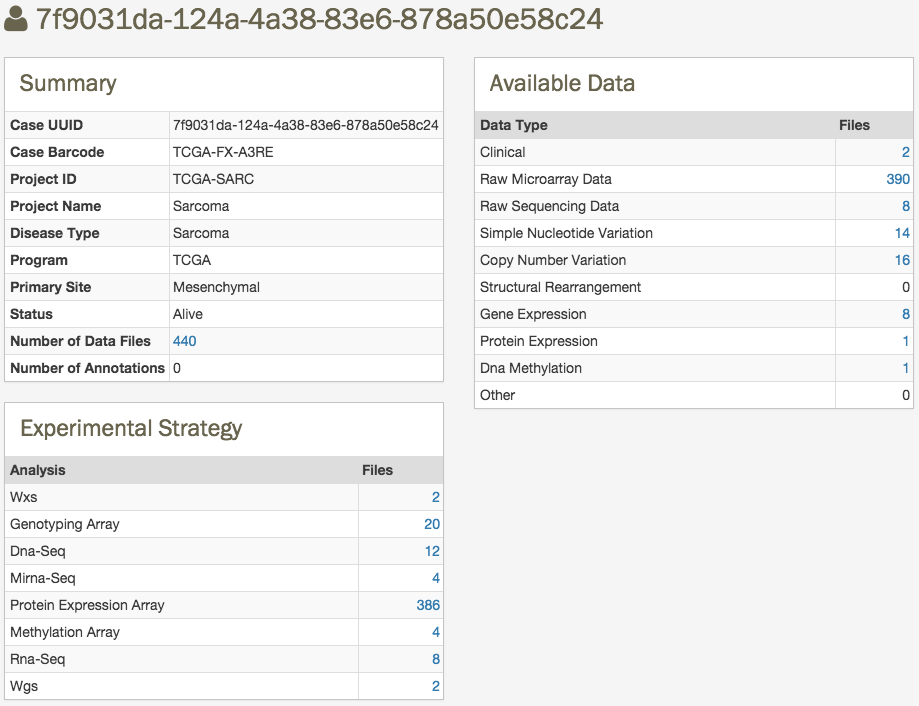
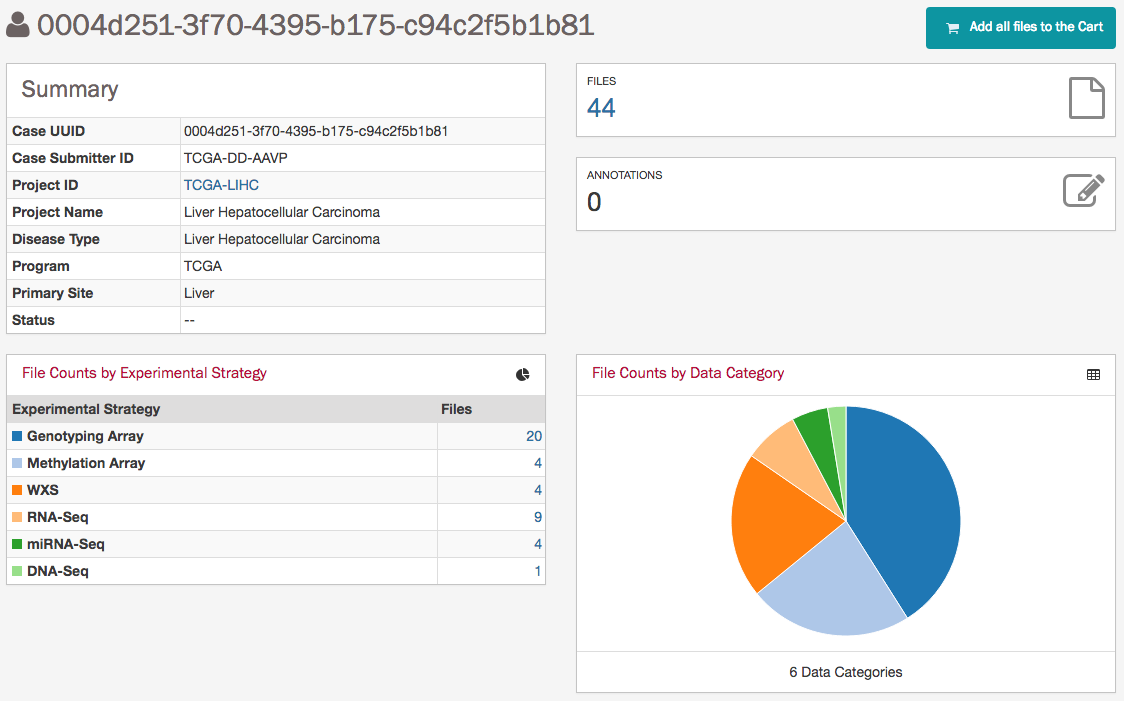
More updated on data portal user guide

diff --git a/docs/Data_Portal/Users_Guide/Data.md b/docs/Data_Portal/Users_Guide/Data.md
@@ -32,10 +32,10 @@ By default, the following __Cases__ facets are available:
 By default, the following __Files__ facets are available:
 
 * __File__: Search foe files using filename or ID
+* __Data Category__: Data category of the file.
 * __Data Type__: Kind of data contained in the file. Note that each of these data types may have subtypes, and that the numbers given in the table reflect the numbers of latest files for all subtypes of that data type.
 * __Experimental Strategy__: This describes NGS sequencing strategies or microarray technological platforms/array types and other experimental assays.
 * __Data Format__: Format of the data.
-* __File Origin__: Indicate whether file is migrated from legacy data, submitted (or produced by harmonization) in active projects.
 * __Platform__: Technological platform from which experimental data was produced.
 * __Access Level__: Indicate whether data is open or controlled access.
 * __Data Submitter__: Research center from where data was produced.
@@ -49,9 +49,9 @@ The summary tab displays a high-level view of the data currently being filtered.
 
 [![Summary Tab](images/data-view-summary-tab.png)](images/data-view-summary-tab.png "Click to see the full image.")
 
-On top of the page a button is available to add all filtered files to cart.
+On top of the page a button is available to "Add all files to the Cart" corresponding to currently filtered files.
 
-Multiple pie charts are available to provide a visual and interactive representation of data available on the GDC Data Portal.
+Multiple pie charts and tables are available to provide a visual and interactive representation of data available on the GDC Data Portal.
 Clicking on a specific slice of a table filter add the corresponding slice to currently applied filters.
 
 ### Cases
@@ -80,7 +80,7 @@ In the table header clicking on the shopping cart will give user the option to h
 
 Alternatively, for each row user can:
 
-* Add the file to the cart
+* Add the individual file to the cart
 * Download the file directly
 
 ## Advanced
@@ -92,6 +92,8 @@ The _'Advanced'_ button redirects to the advanced query page; this feature is de
 [![Case Entity Page](images/gdc-data-portal-case-entity-page-header.png)](images/gdc-data-portal-case-entity-page-header.png "Click to see the full image.")
 
 The Case Entity page displays case details including the project and disease information, data files that are available for that case, and the experimental strategies employed.
+
+A button is available, on the top-right corner of the page to add all files associated to this case to the cart.
 
 [![Case Entity Page, Clinical and Biospecimen](images/gdc-data-portal-case-entity-page-footer.png)](images/gdc-data-portal-case-entity-page-footer.png "Click to see the full image.")
 
@@ -105,8 +107,20 @@ From there the file can be added to cart, downloaded directly, or if the file is
 
 [![Files Entity Page](images/gdc-data-portal-files-entity-page.png)](images/gdc-data-portal-files-entity-page.png "Click to see the full image.")
 
-Relation between this file and its case as well as between this file and any other file is also available in this page.
+More details about the file itself are provided in the upper section of the page.
+
+In the lower section of the screen, the following tables provide more details about the file and its characteristics:
+
+* __Associated Cases / Biospecimen__: Relation between this file and its case as well as between this file and any other file is also available in this page.
+* __Workflow__: TO BE COMPLETED
+* __Read Groups__: TO BE COMPLETED
+* __Metadata Files__: TO BE COMPLETED
+* __Downstream Analysis Files__: TO BE COMPLETED
 
 If the file was originally produced as part of an archive containing many other files, the archive ID is displayed and, if selected, the user will see a _'Files'_ view containing all other files in that archive.
 
 If the file was part of a MAGE-TAB archive, the whole archive can be downloaded from the file details page.  BAI sequence data index files are related to sequence data BAM files and will be displayed if relevant.
+
+[![Files Entity Page](images/gdc-data-portal-files-entity-page-part2.png)](images/gdc-data-portal-files-entity-page-part2.png "Click to see the full image.")
+
+

diff --git a/docs/Data_Portal/Users_Guide/Projects.md b/docs/Data_Portal/Users_Guide/Projects.md
@@ -24,17 +24,16 @@ As mentioned previously in this documentation, the projects view offer the abili
 *   __Primary Site__: Originating or primary anatomic site of the cancer under investigation or review.
 *   __Cancer Program__: Programs are overarching activities meant to fulfill a broad scientific objective.  As mentioned above, Projects fulfill more specific requirements within a Program.
 *   __Disease Type__: type of cancer studied in the project.
-*   __Data Type__: Kind of data contained in the file. Note that each of these data types may have subtypes, and that the numbers given in the table reflect the numbers of latest files for all subtypes of that data type.  Data Subtypes can be explored in Facets contained in the ‘Files’ tab in the ‘Data’ view described below.
-    *   _Clinical_ – Clinical Data about the case, as well as Biospecimen data about the sample and aliquots
-    *   _Array_ – Gene Expression Array Data
+*   __Data Category__: Kind of data contained in the file. Note that each of these data types may have subtypes, and that the numbers given in the table reflect the numbers of latest files for all subtypes of that data type.  Data Subtypes can be explored in Facets contained in the ‘Files’ tab in the ‘Data’ view described below.
+
     *   _Seq_ – Raw Sequencing Data
+    *   _Exp_ – Raw Microarray Data   
     *   _SNV_ – Single Nucleotide Variation
     *   _CNV_ – Copy Number Variation
     *   _SV_ – Structural Rearrangement
-    *   _Exp_ – Raw Microarray Data
-    *   _PExp_ – Protein Expression
     *   _Meth_ – Methylation
-    *   _Other_ – a catch-all for any other data associated with a particular sample
+    *   _Clinical_ – Clinical Data about the case, as well as Biospecimen data about the sample and aliquots     
+    *   _Biospecimen_ – Clinical Data about the case, as well as Biospecimen data about the sample and aliquots
 *   __Experimental Strategy__: This describes NGS sequencing strategies or microarray technological platforms/array types and other experimental assays.
 
 ### Graph View
@@ -60,3 +59,8 @@ Each project has its own entity page aimed at providing an overview of all cases
 Clicking on various numbers will link to the corresponding search page (data or annotations) with filters already applied.
 
 For example, if the cases link in the ‘Clinical’ row in the ‘Available Data’ Table is chosen, the user will see a case view with the appropriate filters already applied.
+
+On the top right section of the screen, two download options are available:
+
+* __Download Clinical JSON__: Downloads a list of all Cases associated with this project.
+* __Download Biospecimen JSON__: Downloads Biospecimen data from all cases associated with this project.

diff --git a/docs/Data_Portal/Users_Guide/Annotations.md b/docs/Data_Portal/Users_Guide/Annotations.md
@@ -15,11 +15,13 @@ Annotations are important as they indicate that issues or caveats have been foun
 The following facets are available to search for annotations:
 
 * __Annotation ID__: Seach using annotation ID
+* __Entity ID__: Seach using entity ID
+* __Case UUID__: Seach using case UUID
 * __Primary Site__: Tissue type of the cancer
 * __Project__: See project section of the documentation
 * __Entity Type__: Patient, Sample, Portion, Slide, Analyte, Aliquot
 * __Annotation Category__: See link below
-* __Annotation Created Since__: Search for annotations by date of creation
+* __Annotation Created__: Search for annotations by date of creation
 * __Annotation Classification__: See link below
 
 ### Annotation List

diff --git a/docs/Data_Portal/Users_Guide/Advanced_Search.md b/docs/Data_Portal/Users_Guide/Advanced_Search.md
@@ -84,15 +84,13 @@ Used to combine multiple clauses, allowing you to refine your search.
 
 Examples:
 
-*   Find all open files in breast cancer:
-
-```
+```Example1
+# ind all open files in breast cancer
 cases.project.primary_site = Breast and files.access = open
 ```
 
-*   Find all open files in breast cancer and data type is copy number variation:
-
-```
+```Example2
+# Find all open files in breast cancer and data type is copy number variation
 cases.project.primary_site = Breast and files.access = open and files.data_type = "Copy number variation"
 ```
 
